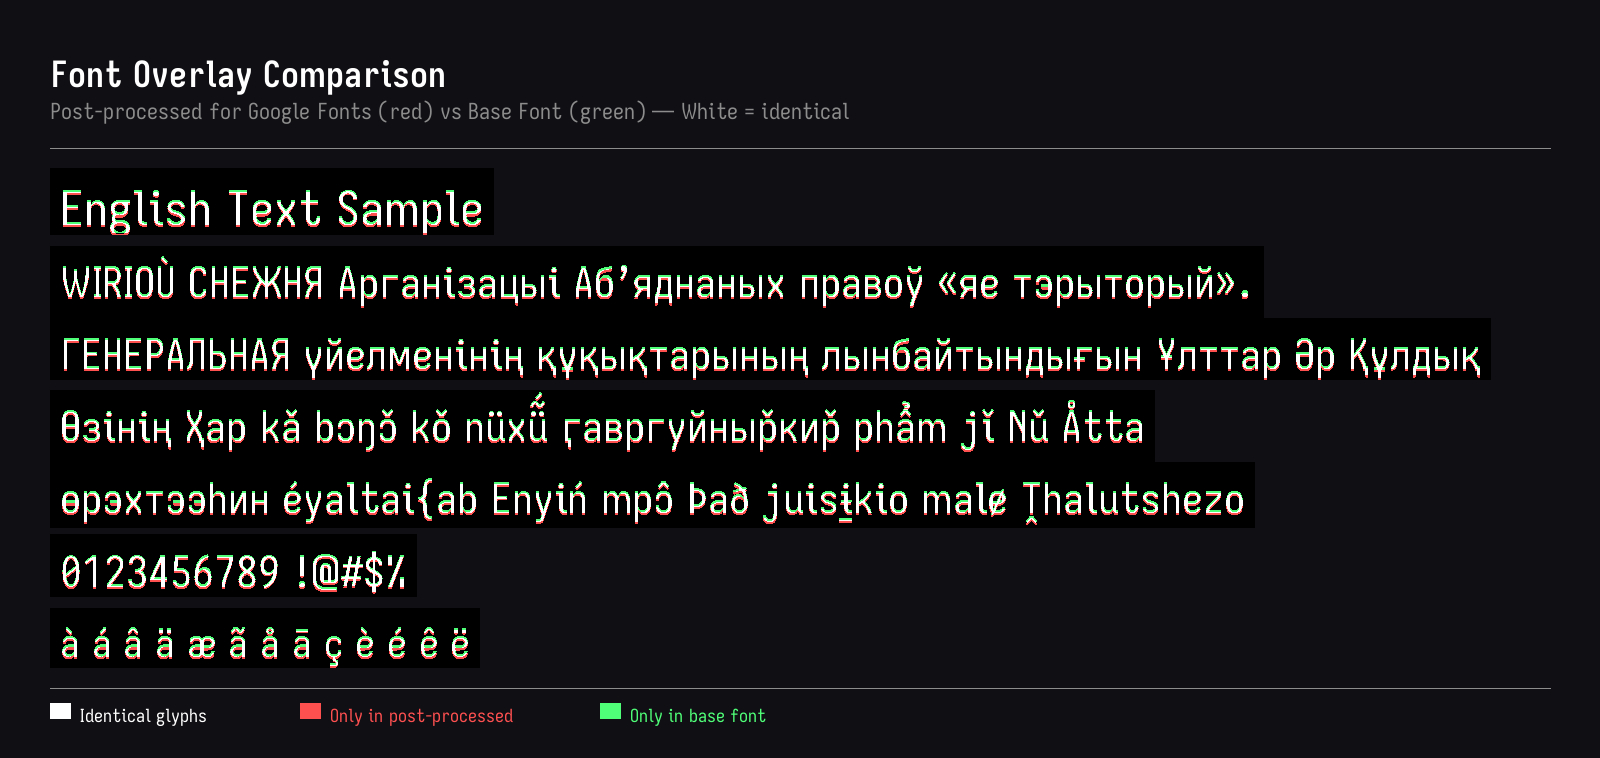
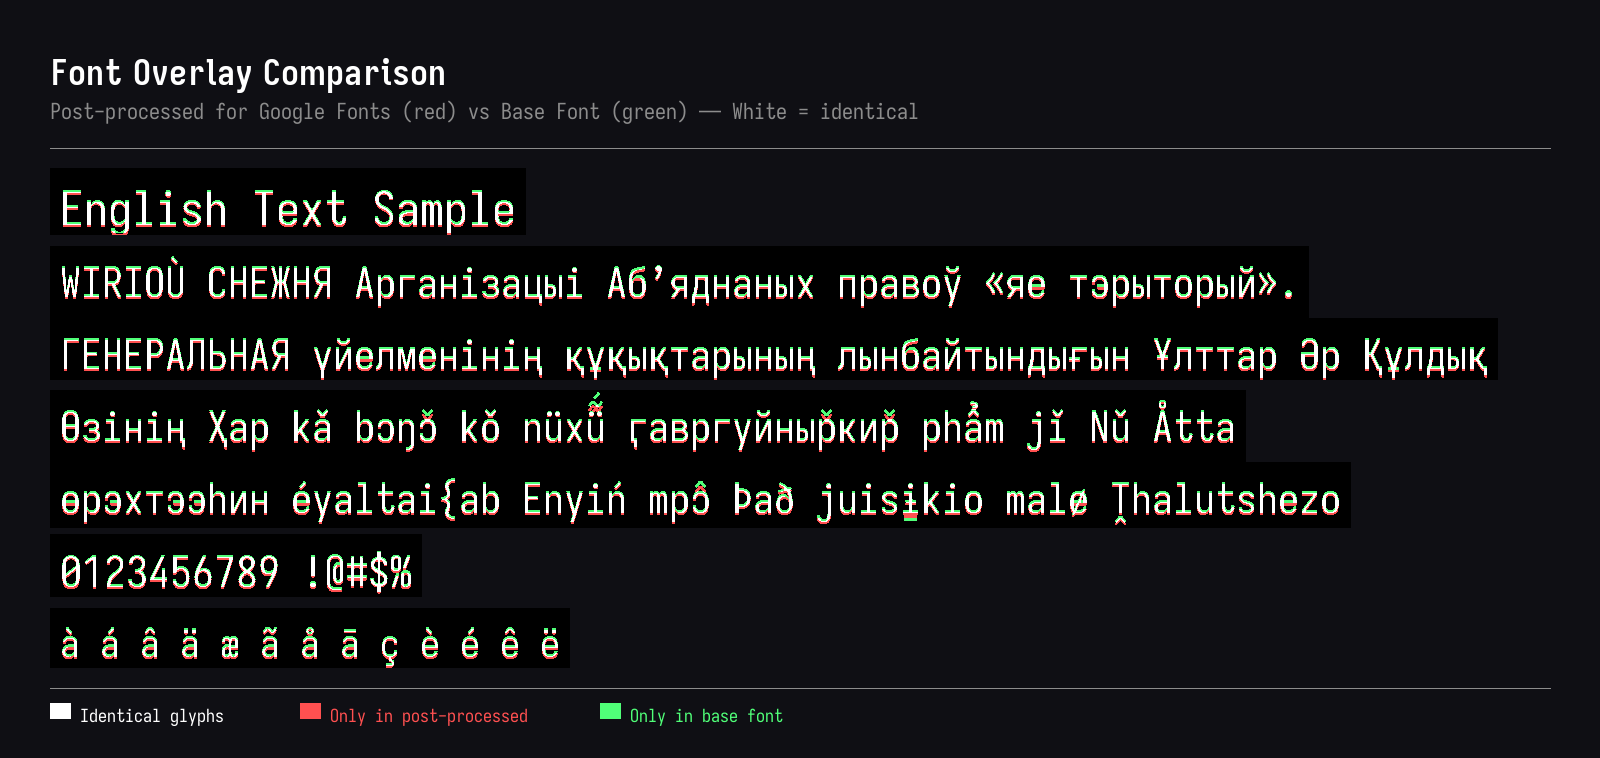
fix anchor positioning

diff --git a/scripts/fix_fonts.py b/scripts/fix_fonts.py
@@ -436,6 +436,18 @@ def add_fallback_mark_anchors(font):
     cmap = font.getBestCmap()
     glyph_for_cp = {cp: name for cp, name in cmap.items()}
 
+    # Quick classifier for mark direction so we can generate sensible anchors.
+    below_classes = {202, 214, 218, 220, 222, 223, 224, 225, 226}
+    overlay_classes = {1, 200}
+
+    def classify_mark(cp: int) -> int:
+        cc = unicodedata.combining(chr(cp))
+        if cc in below_classes:
+            return 1  # below
+        if cc in overlay_classes:
+            return 2  # overlay
+        return 0  # above
+
     # Collect combining marks present in the font.
     mark_glyphs = []
     for cp, name in sorted(glyph_for_cp.items()):
@@ -464,8 +476,6 @@ def add_fallback_mark_anchors(font):
             if glyph_name in glyf_table:
                 base_glyphs.append(glyph_name)
 
-    # Use a single fallback mark class to keep the lookup compact.
-    mark_class_index = 0
     glyf = font['glyf']
     hmtx = font['hmtx']
 
@@ -488,11 +498,42 @@ def add_fallback_mark_anchors(font):
                 if subtable.MarkCoverage:
                     existing_mark_glyphs.update(subtable.MarkCoverage.glyphs)
 
-    missing_mark_glyphs = [(name, cp) for name, cp in mark_glyphs if name not in existing_mark_glyphs]
-    if not missing_mark_glyphs:
+    # Include marks that currently lack coverage OR have joining suffixes (their anchors are poor).
+    target_mark_glyphs = []
+    for name, cp in mark_glyphs:
+        if name not in existing_mark_glyphs or ".join-" in name:
+            target_mark_glyphs.append((name, cp))
+
+    if not target_mark_glyphs:
         return False
 
-    mark_anchors = {name: (mark_class_index, buildAnchor(0, 0)) for name, _ in missing_mark_glyphs}
+    glyf = font['glyf']
+    hmtx = font['hmtx']
+
+    mark_anchors = {}
+    mark_classes_present = set()
+    for name, cp in target_mark_glyphs:
+        if name not in glyf or name not in hmtx.metrics:
+            continue
+        glyph = glyf[name]
+        if not hasattr(glyph, "xMax") or glyph.xMax is None:
+            glyph.recalcBounds(glyf)
+
+        cls = classify_mark(cp)
+        mark_classes_present.add(cls)
+
+        mx = (glyph.xMin + glyph.xMax) // 2
+        if cls == 1:  # below mark
+            my = glyph.yMax
+        elif cls == 2:  # overlay mark
+            my = (glyph.yMin + glyph.yMax) // 2
+        else:  # above/default
+            my = glyph.yMin
+
+        mark_anchors[name] = (cls, buildAnchor(mx, my))
+
+    if not mark_anchors:
+        return False
 
     base_anchors = {}
     for base in base_glyphs:
@@ -503,9 +544,15 @@ def add_fallback_mark_anchors(font):
             glyph.recalcBounds(glyf)
         advance, _ = hmtx[base]
         x = advance // 2
-        y = glyph.yMax if hasattr(glyph, "yMax") and glyph.yMax is not None else font['hhea'].ascender
-        anchor = buildAnchor(x, y)
-        base_anchors[base] = {mark_class_index: anchor}
+        anchors_for_base = {}
+        if 0 in mark_classes_present:
+            anchors_for_base[0] = buildAnchor(x, glyph.yMax)
+        if 1 in mark_classes_present:
+            anchors_for_base[1] = buildAnchor(x, glyph.yMin)
+        if 2 in mark_classes_present:
+            anchors_for_base[2] = buildAnchor(x, (glyph.yMin + glyph.yMax) // 2)
+        if anchors_for_base:
+            base_anchors[base] = anchors_for_base
 
     if not base_anchors:
         return False
@@ -706,6 +753,23 @@ def fix_style_bits(font):
     return True
 
 
+def drop_glyph_names(font):
+    """Switch post table to format 3 to avoid invalid glyph names."""
+    if 'post' not in font:
+        return False
+
+    post = font['post']
+    if getattr(post, "formatType", None) == 3.0:
+        return False
+
+    post.formatType = 3.0
+    # Clear name-related data that isn't used in format 3.
+    post.extraNames = []
+    post.glyphNameIndex = []
+    post.mapping = {}
+    return True
+
+
 def fix_gdef_mark_classes(font):
     """Ensure combining marks are classified as marks in GDEF."""
     if 'GDEF' not in font:
@@ -781,6 +845,9 @@ def post_process_font(font_path, output_path=None):
 
         if fix_style_bits(font):
             fixes_applied.append("style_bits")
+
+        if drop_glyph_names(font):
+            fixes_applied.append("stripped_glyph_names")
 
         if add_fallback_mark_anchors(font):
             fixes_applied.append("fallback_mark_anchors")
